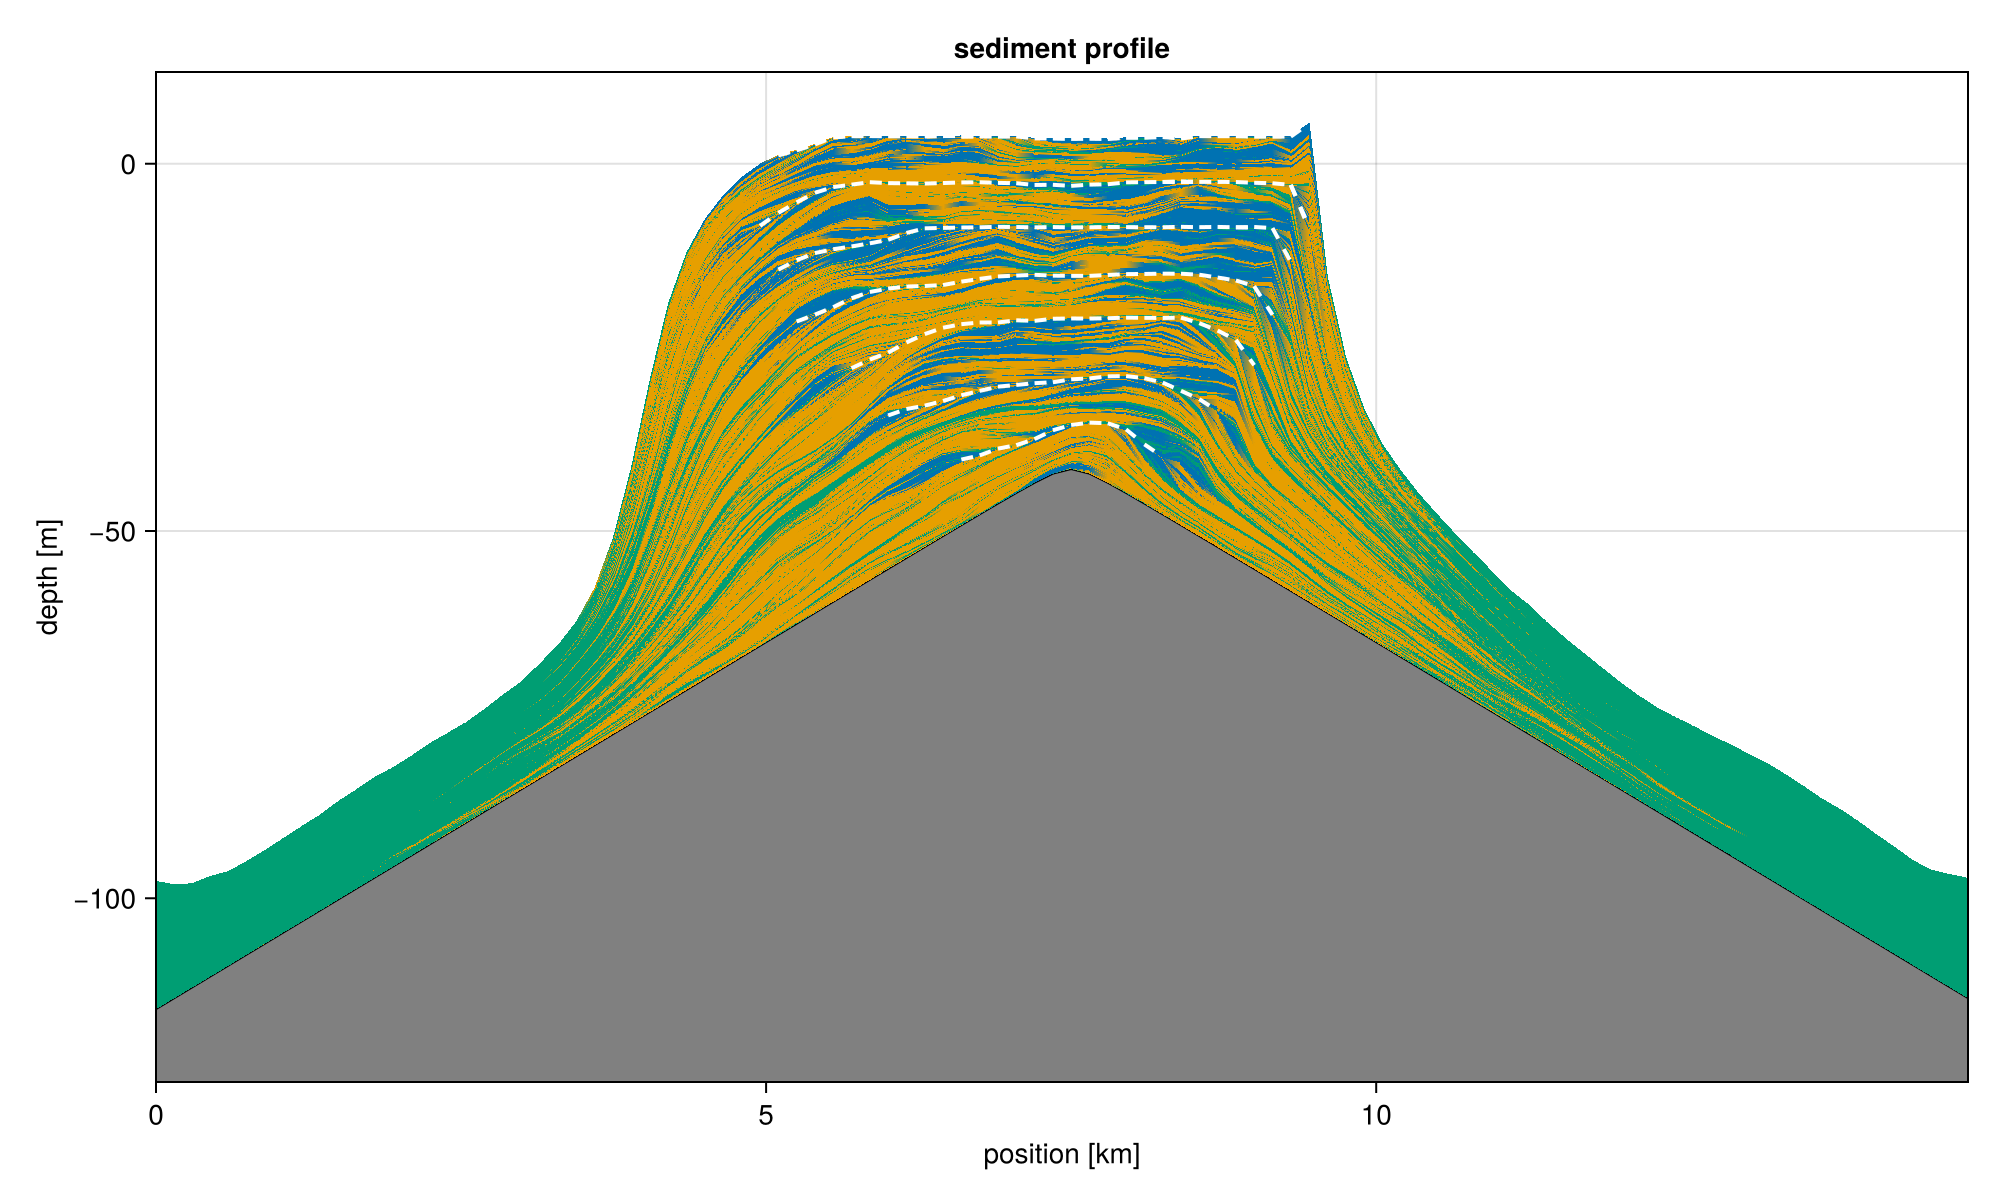
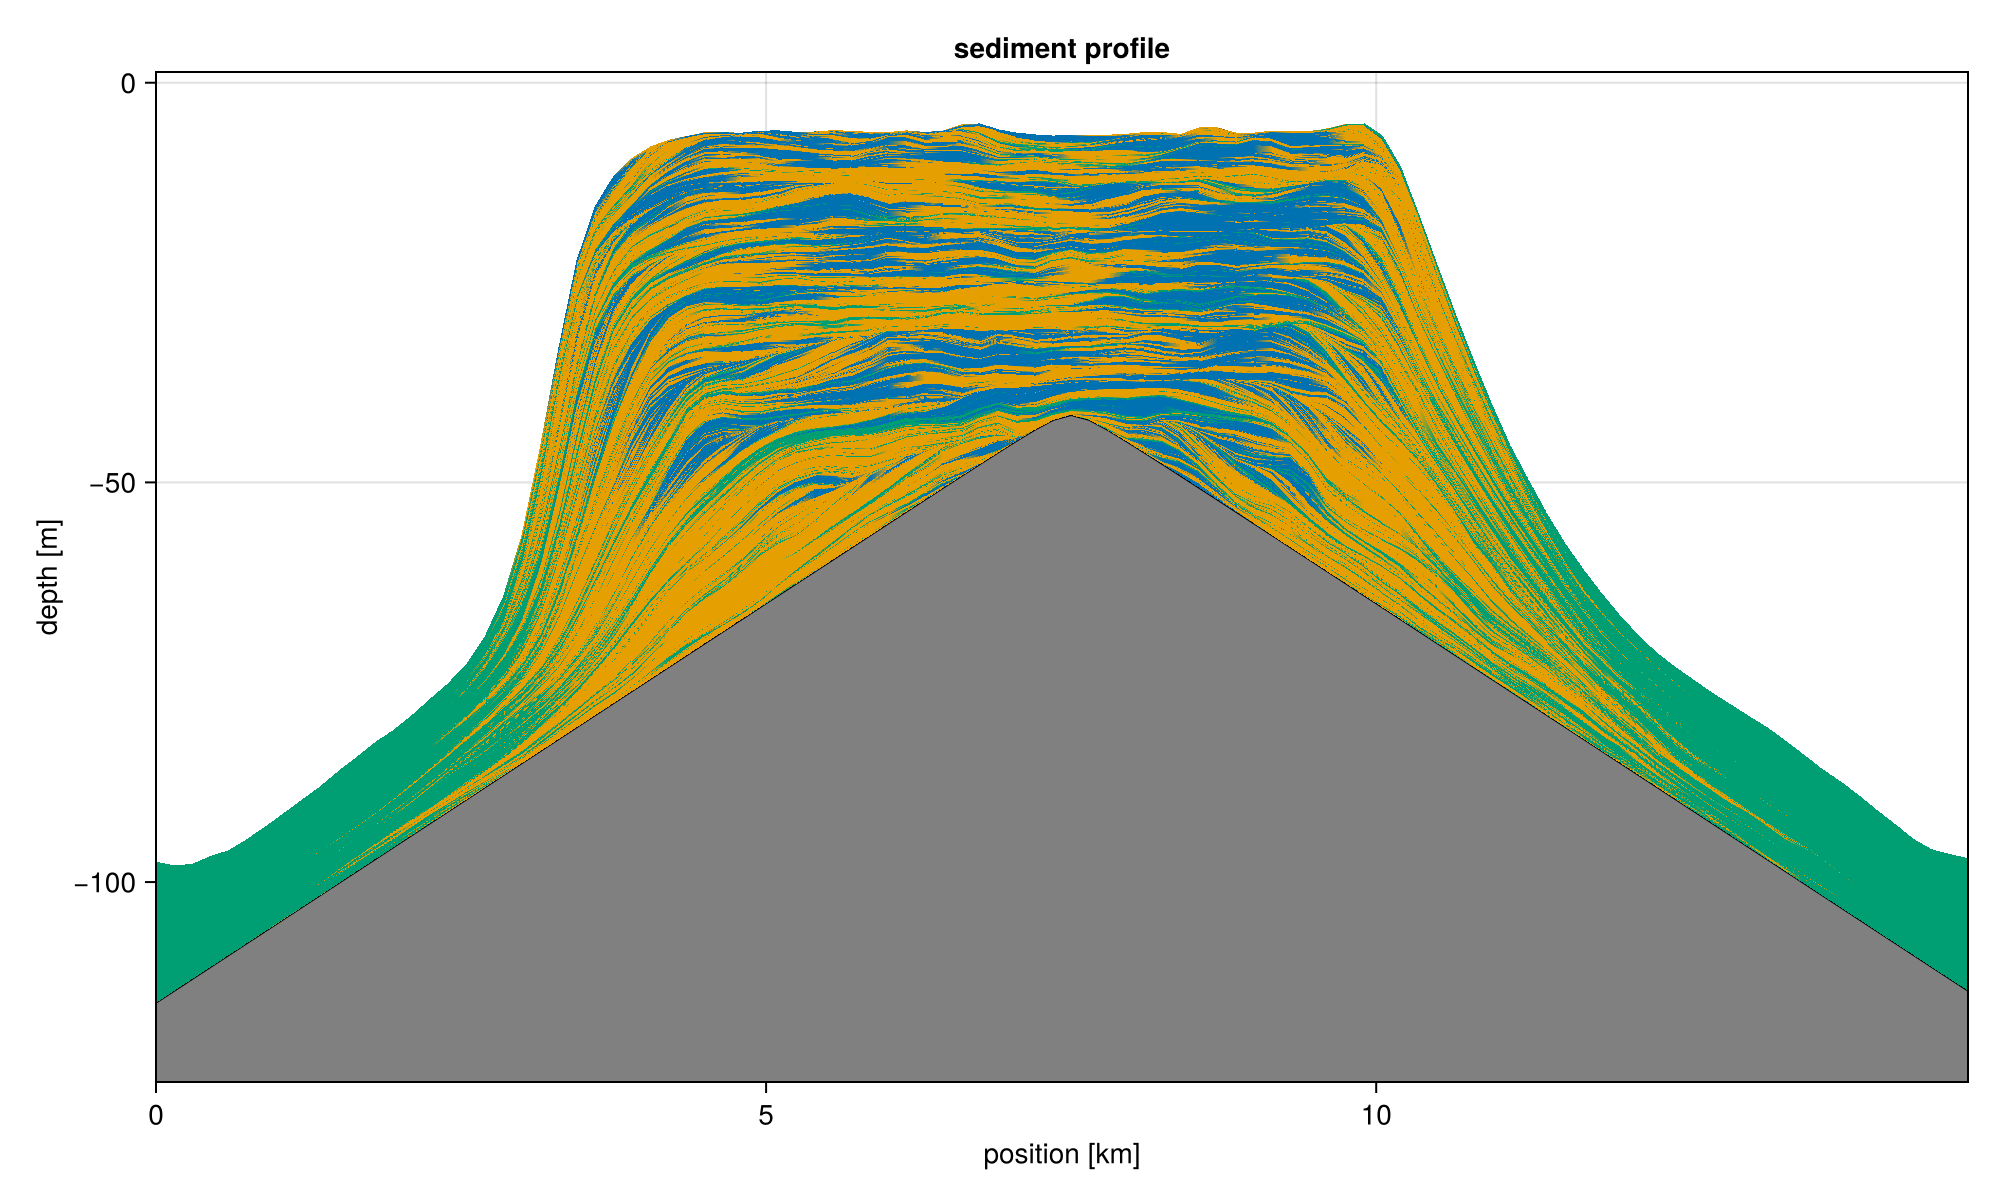
add atoll figures

diff --git a/md/paper.md b/md/paper.md
@@ -401,6 +401,8 @@ wave_velocity(v_max) = w -> let (v, s) = v_prof(v_max, 10.0u"m", w)
 initial_topography(x, y) = 
     - sqrt((x - 7.5u"km")^2 + (y - 7.5u"km")^2) / 100.0
 
+const INTERTIDAL_ZONE = 10.0u"m"
+
 const FACIES = [
     ALCAP.Facies(
         viability_range=(4, 10),
@@ -409,6 +411,7 @@ const FACIES = [
         extinction_coefficient=0.8u"m^-1",
         saturation_intensity=60u"W/m^2",
         diffusion_coefficient=10.0u"m/yr",
+        production_offset=INTERTIDAL_ZONE,
 		wave_velocity=wave_velocity(-0.5u"m/yr")),
     ALCAP.Facies(
         viability_range=(4, 10),
@@ -417,6 +420,7 @@ const FACIES = [
         extinction_coefficient=0.1u"m^-1",
         saturation_intensity=60u"W/m^2",
         diffusion_coefficient=10.0u"m/yr",
+        production_offset=INTERTIDAL_ZONE,
 		wave_velocity=wave_velocity(-1.0u"m/yr")),
     ALCAP.Facies(
         viability_range=(4, 10),
@@ -425,6 +429,7 @@ const FACIES = [
         extinction_coefficient=0.005u"m^-1",
         saturation_intensity=60u"W/m^2",
         diffusion_coefficient=10.0u"m/yr",
+        production_offset=INTERTIDAL_ZONE,
 		wave_velocity=wave_velocity(-1.0u"m/yr"))
 ]
 
@@ -491,14 +496,22 @@ h5open("data/atoll.h5") do fid
 	t = h.initial_topography .+ s .- (h.axes.t[end] * h.subsidence_rate)
 
 	fig = Figure()
-	ax = Axis(fig[1, 1])
-	hm = heatmap!(ax, h.axes.x, h.axes.y, t / u"m", colorrange=(-20, 10), colormap=:curl)
+	ax = Axis(fig[1, 1], limits=((3.0, 12.0), (3.0, 12.0)))
+	hm = heatmap!(ax, h.axes.x, h.axes.y, t / u"m", colorrange=(-10, -4), colormap=Reverse(:RdBu_8))
 	Colorbar(fig[1, 2], hm)
 
 	save("md/fig/atoll-map.png", fig)
 end
 ```
 :::
+
+![Atoll profile](fig/atoll-profile.png){width=100%}
+
+Figure: Profile view of atoll simulation.
+
+![Atoll topography](fig/atoll-map.png){width=100%}
+
+Figure: Topographic map of atoll simulation.
 
 
 ## Validation

diff --git a/README.md b/README.md
@@ -84,6 +84,18 @@ Citations follow a syntax like `@Bosscher1992`, where `Bosscher1992` is an entry
 
 - `hide.lua` hides blocks that are marked with `:::hide`. This is used to hide code blocks.
 
+- `fignos.lua` and `figref.lua` number the figures and enable referencing those figures in the text. The label should be given at the end of the caption, which should be given as a paragraph following the image, starting with `Figure: `. Example:
+
+```md
+An example of this profile is shown in Figure @fig:wave-transport-magnitude.
+
+![Depth profile](fig/wave-transport-magnitude.svg){width=100%}
+
+Figure: Depth profile of velocity and shear. The velocity profile was taylored to have a maximum of $10 \textrm{m}/\textrm{yr}$ at a depth of $20 \textrm{m}$. Where the shear is non-zero, there is a net accumulation of sediment. {#fig:wave-transport-magnitude}
+```
+
+- `eqnos.lua` numbers equation and handles references to equations.
+
 ## Debugging output
 
 To debug the conversion from Markdown to LaTeX it is sometimes useful to look at Pandoc's abstract syntax tree directly. Pandoc can show this when using `-t native`. This can also run with `make debug`.
